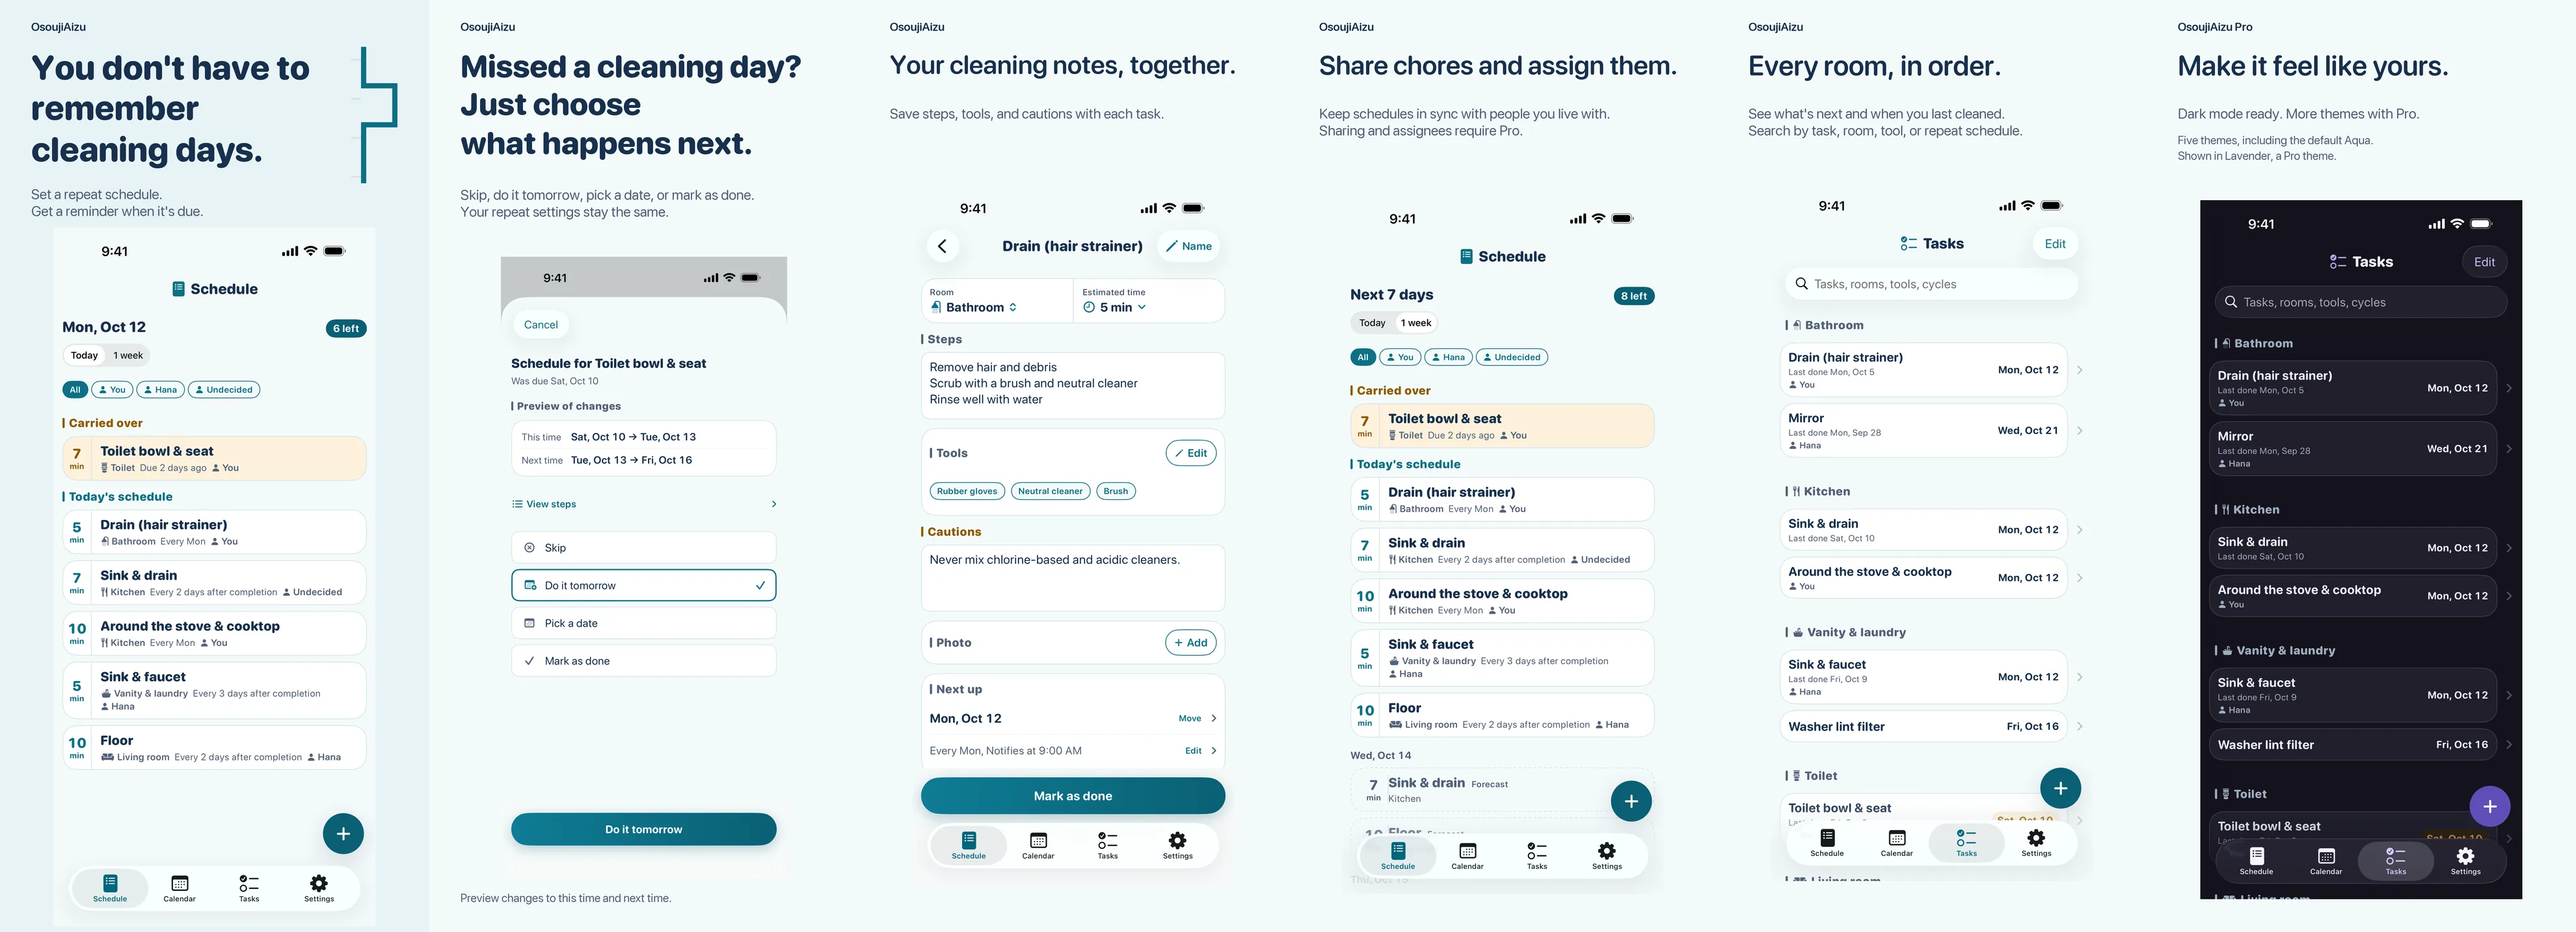
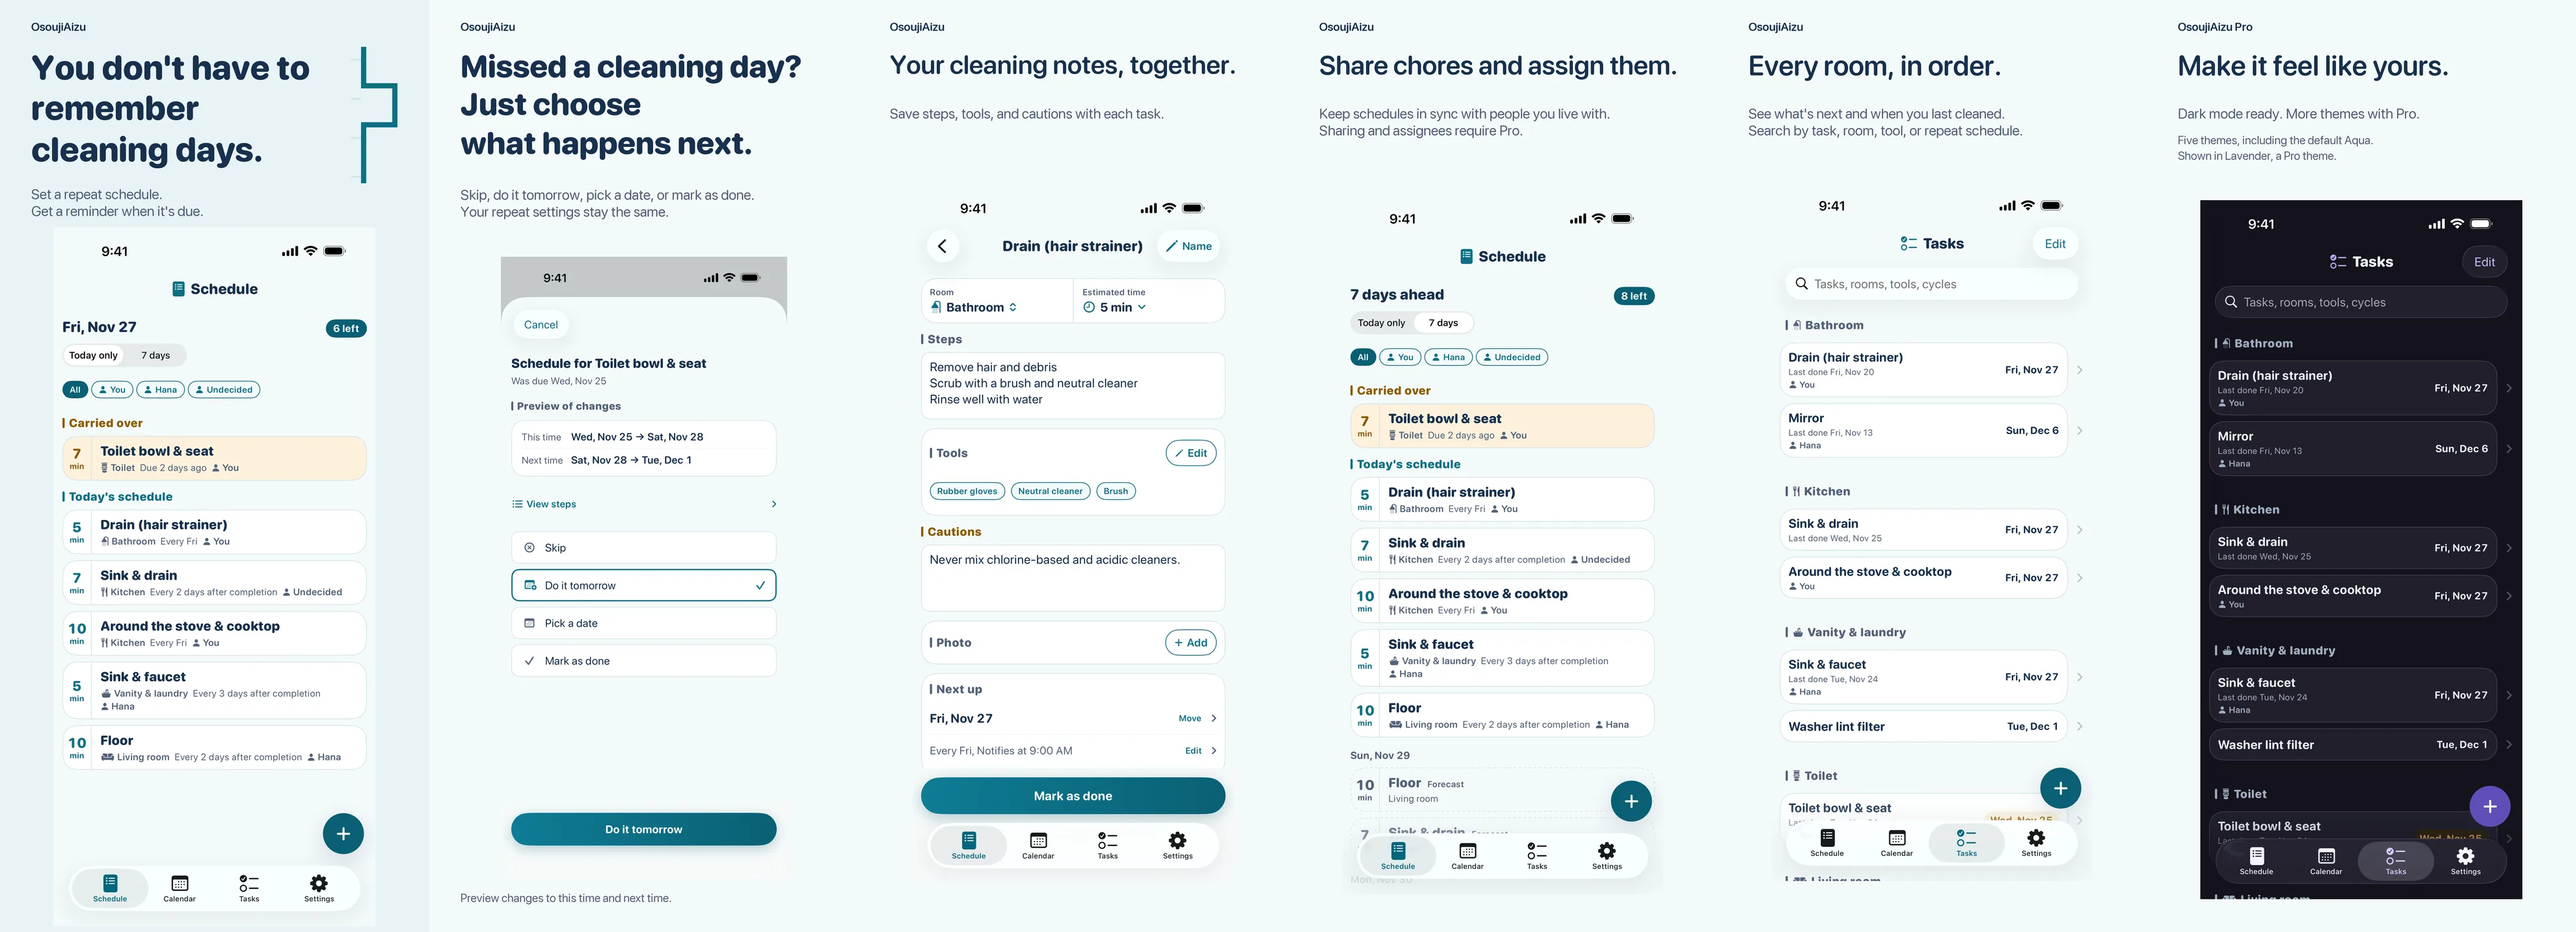
feat(osoujiaizu): LP の画面画像を build 20 の訴求画像に差し替え・sr-only を画像の文にそろえる
Claude-Session: https://claude.ai/code/session_01WjmVp5wXnmdBedFid59THT

diff --git a/osoujiaizu/index.html b/osoujiaizu/index.html
@@ -309,7 +309,7 @@
   <section class="shots" aria-label="アプリの画面">
     <div class="wrap">
       <figure class="shot">
-        <p class="sr-only">アプリの6画面。1. 予定「その日にやる掃除が、残り件数と所要時間つきで並ぶ」2. 予定を選び直す「できなかった日はスキップ・明日・日付選択・完了の4択。周期は変わらない」3. タスクの詳細「手順・使う道具・注意点をタスクに持てる」4. 共有と担当「一緒に暮らす人と予定をそろえて分担。共有と担当の割り振りはPro」5. 部屋ごとのタスク「前回と次回が部屋別に並び、道具や周期でも検索できる」6. ダークとテーマ配色「ダークにも対応。配色のきせかえはPro」</p>
+        <p class="sr-only">アプリの6画面。1. 予定「掃除する日を、覚えておかなくていい。周期を決めると、その日に通知。」2. 予定を選び直す「できなかった日も、予定を選び直すだけでいい。スキップ・明日・日付選択・完了の4択。周期の設定は、そのまま。」3. タスクの詳細「手順も、道具も、ここに。手順・使う道具・注意点を、タスクに保存。」4. 共有と担当「共有して、担当を決める。一緒に暮らす人と予定をそろえて、分担。共有と担当の割り振りはPro。」5. 部屋ごとのタスク「部屋ごとに、すっきり。次回と前回が分かる。道具や周期でも検索。」6. ダークとテーマ配色「見た目も、自分好みに。ダークにも対応。配色のきせかえはPro。」</p>
         <div class="shot-frame">
           <div class="shot-track">
             <button type="button" class="shot-slide" style="--i:0" aria-label="予定の画面を拡大（1/6）"><img src="./app-image.webp" alt="" decoding="async"></button>

diff --git a/osoujiaizu/en/index.html b/osoujiaizu/en/index.html
@@ -305,7 +305,7 @@
   <section class="shots" aria-label="App screens">
     <div class="wrap">
       <figure class="shot">
-        <p class="sr-only">Six app screens. 1. Schedule "What to clean today, with the number left and a time estimate." 2. Change schedule "Missed it? Skip, do it tomorrow, pick a date, or mark as done. The repeat schedule stays." 3. Task detail "Keep steps, tools, and cautions with the task." 4. Sharing and assignees "Keep schedules in sync with people you live with. Sharing and assignees require Pro." 5. Tasks by room "Last and next time, grouped by room, searchable by tool or schedule." 6. Dark mode and themes "Dark mode ready. More themes with Pro."</p>
+        <p class="sr-only">Six app screens. 1. Schedule "You don't have to remember cleaning days. Set a repeat schedule. Get a reminder when it's due." 2. Change schedule "Missed a cleaning day? Just choose what happens next. Skip, do it tomorrow, pick a date, or mark as done. Your repeat settings stay the same." 3. Task detail "Your cleaning notes, together. Save steps, tools, and cautions with each task." 4. Sharing and assignees "Share chores and assign them. Keep schedules in sync with people you live with. Sharing and assignees require Pro." 5. Tasks by room "Every room, in order. See what's next and when you last cleaned. Search by task, room, tool, or repeat schedule." 6. Dark mode and themes "Make it feel like yours. Dark mode ready. More themes with Pro."</p>
         <div class="shot-frame">
           <div class="shot-track">
             <button type="button" class="shot-slide" style="--i:0" aria-label="Enlarge the Schedule screen (1 of 6)"><img src="../app-image-en.webp" alt="" decoding="async"></button>
